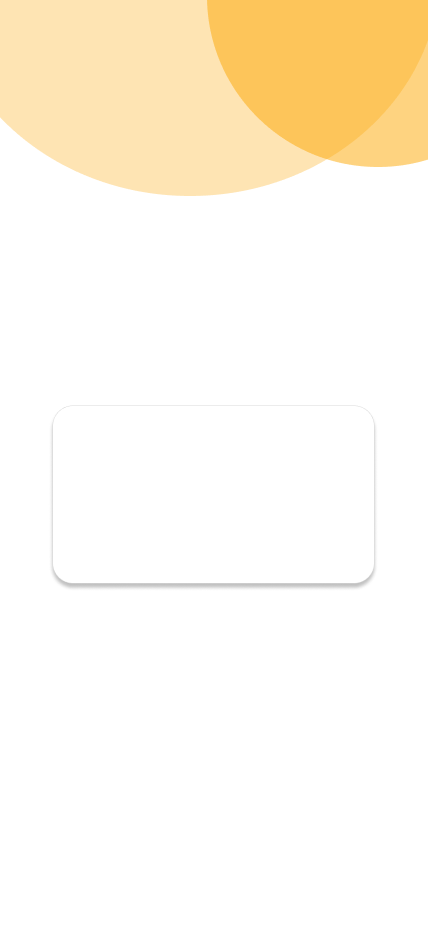
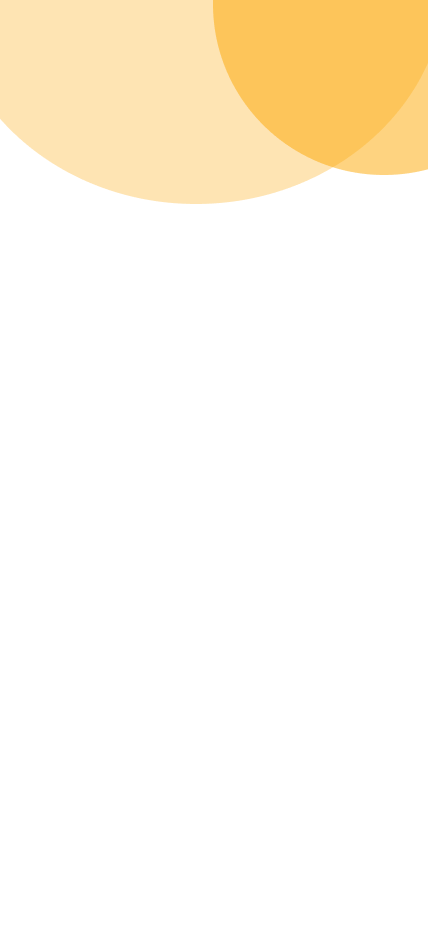
Fix Login Screen

diff --git a/screen/Login.js b/screen/Login.js
@@ -1,8 +1,10 @@
-import { StyleSheet, Text, View, Image, ImageBackground, TouchableOpacity } from 'react-native'
-import React, { useState } from 'react'
+import { StyleSheet, Text, View, Image, ImageBackground, TouchableOpacity, TextInput } from 'react-native'
+import React, { useState, useMemo } from 'react'
 import { SafeAreaView } from 'react-native-safe-area-context'
 import { Dropdown } from 'react-native-element-dropdown';
 import { GoogleSignin } from '@react-native-google-signin/google-signin';
+import RadioGroup from 'react-native-radio-buttons-group';
+import Ionicons from 'react-native-vector-icons/Ionicons';
 
 
 const Login = () => {
@@ -19,7 +21,21 @@ const Login = () => {
   const [value, setValue] = useState(null);
   const [isFocus, setIsFocus] = useState(false);
 
+  const radioButtons = useMemo(() => ([
+    {
+      id: '1', // acts as primary key, should be unique and non-empty string
+      label: 'Giảng viên',
+      value: 'option1'
+    },
+    {
+      id: '2',
+      label: 'IT',
+      value: 'option2'
+    }
+  ]), []);
 
+  const [selectedId, setSelectedId] = useState();
+  const [isSecureEntry, setIsSecureEntry] = useState(true);
 
   return (
     <SafeAreaView style={styles.container}>
@@ -29,8 +45,30 @@ const Login = () => {
           <Text style={styles.title2}>ADMIN</Text>
         </View>
 
-        <Image style={{ resizeMode: 'contain', justifyContent: 'center', height: 100, width: 200, alignSelf: 'center', top: -120 }} source={require('../assets/img/logofpt.png')} />
+        <Image style={{ resizeMode: 'contain', justifyContent: 'center', height: 100, width: 200, alignSelf: 'center', top: -80 }} source={require('../assets/img/logofpt.png')} />
 
+        <TextInput style={styles.input} placeholder='Email'  >
+
+        </TextInput>
+
+        <View
+          style={[styles.border, { flexDirection: "row" }]}
+        >
+
+          <TextInput
+            placeholder="Password"
+            secureTextEntry={isSecureEntry}
+            style={{ flex: 1, height : 100 }}
+
+          />
+          <Ionicons
+            style={{}}
+            name={isSecureEntry ? "eye" : "eye-off"}
+            size={20}
+            color="grey"
+            onPress={() => setIsSecureEntry(!isSecureEntry)}
+          />
+        </View>
 
 
         <Dropdown
@@ -49,11 +87,33 @@ const Login = () => {
             setIsFocus(false);
           }}
         />
-
-        <TouchableOpacity style={[styles.borderGG, {flexDirection : 'row'}]} >
-          <Image source={require('../assets/img/gg.png')} style={{ resizeMode: 'contain', right : 10 }} />
-          <Text>Google</Text>
+        <TouchableOpacity>
+          <Text style={{ color: '#000', fontWeight: 'bold', top: -50, left: 70 }}>Quên mật khẩu </Text>
         </TouchableOpacity>
+
+        <RadioGroup
+          radioButtons={radioButtons}
+          onPress={setSelectedId}
+          selectedId={selectedId}
+          containerStyle={{ flexDirection: 'row', top: -40, justifyContent: "space-evenly" }}
+        />
+
+        <TouchableOpacity style={[styles.login, { flexDirection: 'row', backgroundColor: "#fda600" }]} >
+          <Text style={{ color: '#fff', fontWeight: 'bold' }}>Đăng nhập</Text>
+        </TouchableOpacity>
+
+        <View style={{ flexDirection: "row" }}>
+          <Text style={{ color: '#000', top: -30, left: 70 }}>Bạn chưa có tài khoản?</Text>
+          <TouchableOpacity>
+            <Text style={{ color: '#000', fontWeight: 'bold', top: -30, left: 80 }}>Đăng ký</Text>
+          </TouchableOpacity>
+        </View>
+
+
+
+        {/* <TouchableOpacity style={[styles.borderGG, { flexDirection: 'row' }]} >
+          <Image source={require('../assets/img/gg.png')} style={{ resizeMode: 'contain' }} />
+        </TouchableOpacity> */}
 
       </ImageBackground>
     </SafeAreaView>
@@ -69,7 +129,7 @@ const styles = StyleSheet.create({
   titleView: {
     justifyContent: 'center',
     flexDirection: 'row',
-    top: -130
+    top: -70
   },
   title1: {
     color: "#FDA600",
@@ -104,7 +164,7 @@ const styles = StyleSheet.create({
     backgroundColor: '#fff',
     top: -50
   },
-  borderGG : {
+  input: {
     width: 270,
     height: 40,
     borderWidth: 1,
@@ -116,7 +176,20 @@ const styles = StyleSheet.create({
     padding: 10,
     margin: 10,
     backgroundColor: '#fff',
-    top: -30
+    top: -50
+  },
+  borderGG: {
+    width: 80,
+    height: 40,
+    borderWidth: 1,
+    borderColor: "#000000",
+    borderRadius: 10,
+    justifyContent: 'center',
+    alignItems: 'center',
+    alignSelf: 'center',
+    padding: 10,
+    margin: 10,
+    backgroundColor: '#fff',
   },
   dropdown: {
     height: 50,
@@ -125,6 +198,21 @@ const styles = StyleSheet.create({
     borderRadius: 8,
     paddingHorizontal: 8,
   },
+
+  login: {
+    width: 240,
+    height: 40,
+
+    borderRadius: 10,
+    justifyContent: 'center',
+    alignItems: 'center',
+    alignSelf: 'center',
+    padding: 10,
+    margin: 10,
+    backgroundColor: '#fff',
+    top: -30
+  },
+
 
   label: {
     position: 'absolute',

diff --git a/App.tsx b/App.tsx
@@ -25,7 +25,14 @@ export default function App() {
 
   return (
     <NavigationContainer>
-      <Tab.Navigator
+      <Stack.Navigator initialRouteName="Login">
+        <Stack.Screen name="Login" component={Login} options={{ headerShown: false }} />
+        <Stack.Screen name="Home" component={BottomTabNavigation} options={{ headerShown: false }} />
+        <Stack.Screen name="Report" component={Report} options={{ headerShown: false }} />
+        <Stack.Screen name="Report List" component={ReportList} options={{ headerShown: false }} />
+        <Stack.Screen name="Setting" component={Setting} options={{ headerShown: false }} />
+      </Stack.Navigator>
+      {/* <Tab.Navigator
         
         screenOptions={({ route }) => ({
           
@@ -53,7 +60,7 @@ export default function App() {
         <Tab.Screen name="Report List" component={ReportList} options={{ headerShown: false }} />
         <Tab.Screen name="Setting" component={Setting} options={{ headerShown: false }} />
 
-      </Tab.Navigator>
+      </Tab.Navigator> */}
 
 
 
